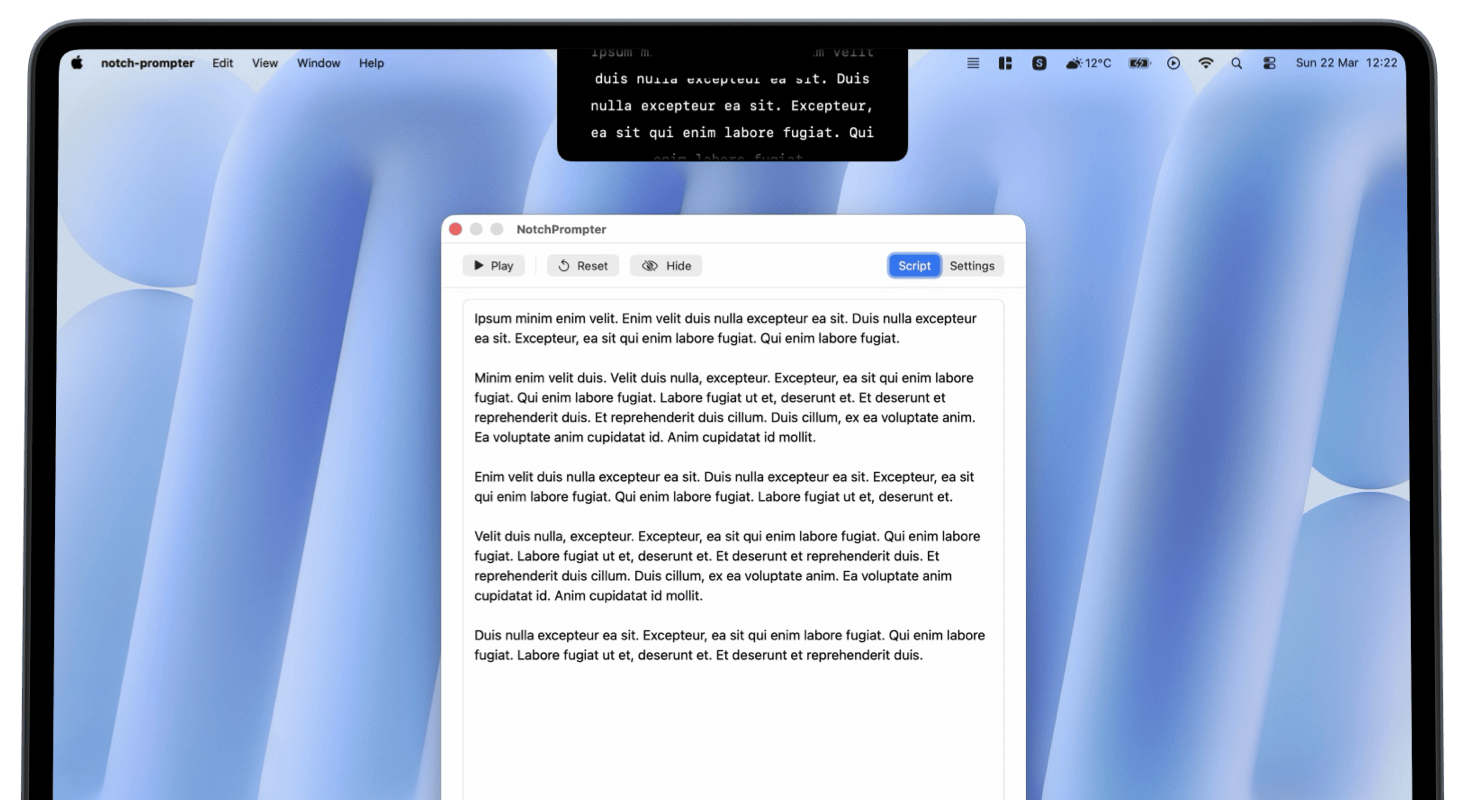
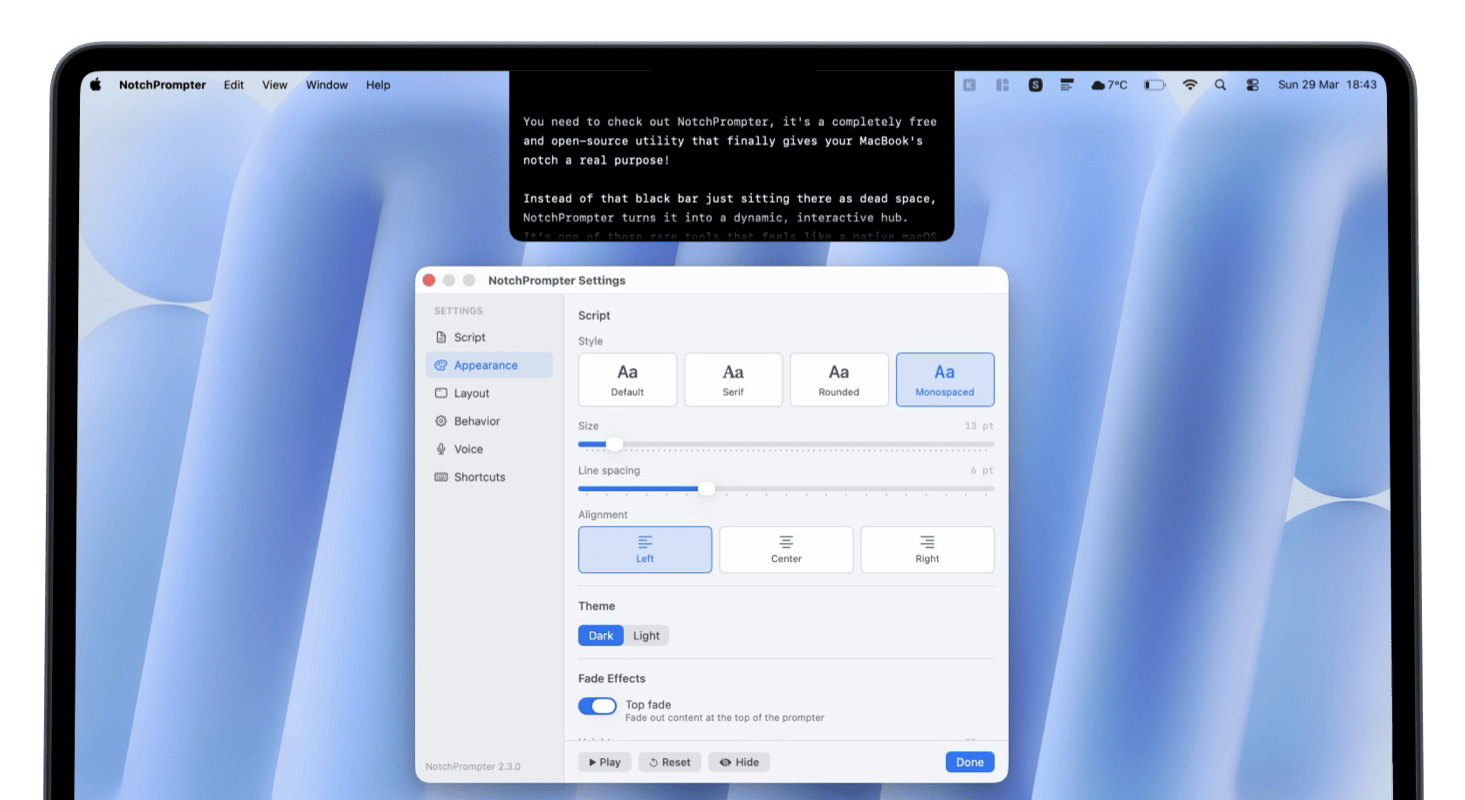
Update screenshot

diff --git a/docs/index.html b/docs/index.html
@@ -204,7 +204,7 @@
     <div class="relative group">
       <div class="absolute"></div>
       <div class="relative overflow-hidden bg-zinc-50 border-b-4 border-zinc-200">
-        <img src="./assets/screen-frame-notext-HmzE2F_0.png"
+        <img src="./assets/screen-frame-notext-6A1ENTWI.png"
              alt="NotchPrompter — teleprompter in macOS notch"
              class="w-full h-auto" />
       </div>
@@ -425,6 +425,7 @@
     <div class="flex flex-col sm:flex-row justify-between items-center gap-4">
       <p class="text-xs text-zinc-500">&copy; 2026 NotchPrompter · MIT License</p>
       <div class="flex flex-wrap items-center justify-center sm:justify-end gap-1">
+        <a href="https://simplelocalize.io/suggestions/?id=f1f11f9305dc44a2872b6a154dea6edc" class="text-sm font-medium text-zinc-500 hover:text-zinc-900 px-4 py-2.5 rounded-xl hover:bg-zinc-100 border border-zinc-200 transition-colors">Help translate</a>
         <a href="/privacy-policy.html" class="text-sm font-medium text-zinc-500 hover:text-zinc-900 px-4 py-2.5 rounded-xl hover:bg-zinc-100 border border-zinc-200 transition-colors">Privacy Policy</a>
       </div>
     </div>

diff --git a/website/index.html b/website/index.html
@@ -423,6 +423,7 @@
     <div class="flex flex-col sm:flex-row justify-between items-center gap-4">
       <p class="text-xs text-zinc-500">&copy; 2026 NotchPrompter · MIT License</p>
       <div class="flex flex-wrap items-center justify-center sm:justify-end gap-1">
+        <a href="https://simplelocalize.io/suggestions/?id=f1f11f9305dc44a2872b6a154dea6edc" class="text-sm font-medium text-zinc-500 hover:text-zinc-900 px-4 py-2.5 rounded-xl hover:bg-zinc-100 border border-zinc-200 transition-colors">Help translate</a>
         <a href="/privacy-policy.html" class="text-sm font-medium text-zinc-500 hover:text-zinc-900 px-4 py-2.5 rounded-xl hover:bg-zinc-100 border border-zinc-200 transition-colors">Privacy Policy</a>
       </div>
     </div>
